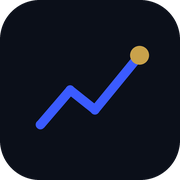
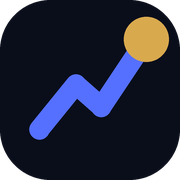
Add files via upload

diff --git a/index.html b/index.html
@@ -6,7 +6,7 @@
 <meta name="apple-mobile-web-app-capable" content="yes"/>
 <meta name="apple-mobile-web-app-status-bar-style" content="black-translucent"/>
 <meta name="apple-mobile-web-app-title" content="AlphaLine"/>
-<meta name="theme-color" content="#0B0F19"/>
+<meta name="theme-color" content="#0A0E1A"/>
 <meta name="description" content="AlphaLine — one guided plan from capital to a catalyst-aware, backtested strategy."/>
 <link rel="preconnect" href="https://fonts.googleapis.com"/>
 <link rel="preconnect" href="https://fonts.gstatic.com" crossorigin/>
@@ -17,11 +17,11 @@
 <title>AlphaLine</title>
 <style>
 :root{
-  --ink:#0B0F19; --paper:#F6F7FA; --p1:#ffffff;
-  --line:#3B5BFF; --line-dim:#E7EBFF;
-  --alpha:#C9A24B; --alpha-dim:#F5EEDD;
-  --mist:#E4E7EE; --sub:#5B6478; --muted:#9BA2B4;
-  --green:#1A8754; --red:#C4342F;
+  --ink:#0A0E1A; --paper:#F5F4EF; --p1:#ffffff;
+  --line:#2C3EA8; --line-dim:#E7E9F7;
+  --alpha:#B4823A; --alpha-dim:#F3E9D6;
+  --mist:#E4E1D8; --sub:#5B5F6E; --muted:#96938A;
+  --green:#1E8A5C; --red:#C13B31;
   --font-display:'Fraunces', Georgia, serif;
   --font-body:'IBM Plex Sans', -apple-system, sans-serif;
   --font-mono:'IBM Plex Mono', 'SF Mono', monospace;
@@ -43,8 +43,8 @@ input{font-family:inherit;}
 .rail{padding:16px 0 10px;position:sticky;top:0;background:var(--paper);z-index:20;}
 .rail-top{display:flex;align-items:center;justify-content:space-between;margin-bottom:10px;}
 .rail-brand{display:flex;align-items:center;gap:7px;}
-.rail-mark{width:29px;height:29px;flex-shrink:0;}
-.rail-word{font-family:var(--font-display);font-size:20px;font-weight:700;letter-spacing:-.015em;}
+.rail-mark{width:36px;height:36px;flex-shrink:0;}
+.rail-word{font-family:var(--font-display);font-size:22px;font-weight:800;letter-spacing:-.02em;}
 .rail-word em{font-style:normal;color:var(--line);}
 .rail-step-lbl{font-family:var(--font-mono);font-size:10.5px;color:var(--muted);font-weight:500;letter-spacing:.02em;}
 .rail-svg-wrap{width:100%;height:34px;}
@@ -64,7 +64,7 @@ input{font-family:inherit;}
 .scene-sub{font-size:13.5px;color:var(--sub);line-height:1.55;margin-bottom:22px;max-width:38ch;}
 
 /* ── HERO (scene 0) ── */
-.hero-mark{width:84px;height:84px;margin-bottom:24px;}
+.hero-mark{width:104px;height:104px;margin-bottom:24px;}
 .hero-title{font-family:var(--font-display);font-size:40px;font-weight:600;letter-spacing:-.02em;line-height:1.05;margin-bottom:14px;}
 .hero-title em{font-style:normal;color:var(--line);}
 .hero-sub{font-size:15px;color:var(--sub);line-height:1.6;margin-bottom:8px;max-width:34ch;}
@@ -115,7 +115,7 @@ input{font-family:inherit;}
 .btn-primary{background:var(--ink);color:#fff;}
 .btn-primary:disabled{opacity:.35;pointer-events:none;}
 .btn-ghost{background:none;color:var(--sub);border:1.5px solid var(--mist);flex:0 0 auto;padding:15px 20px;}
-.btn-alpha{background:linear-gradient(135deg,var(--alpha),#B8923D);color:#fff;}
+.btn-alpha{background:linear-gradient(135deg,var(--alpha),#9C6F2E);color:#fff;}
 
 /* ── FREQUENCY SHEET ── */
 .sheet-overlay{display:none;position:fixed;inset:0;background:rgba(11,15,25,.5);z-index:100;align-items:flex-end;}
@@ -145,9 +145,10 @@ input{font-family:inherit;}
   <div class="rail">
     <div class="rail-top">
       <div class="rail-brand">
-        <svg class="rail-mark" viewBox="0 0 24 24" fill="none">
-          <path d="M2 18L8 11L13 15L22 4" stroke="#3B5BFF" stroke-width="2.8" stroke-linecap="round" stroke-linejoin="round"/>
-          <circle cx="22" cy="4" r="3" fill="#C9A24B"/>
+        <svg class="rail-mark" viewBox="0 0 32 32" fill="none">
+          <rect x="0" y="0" width="32" height="32" rx="9" fill="#0A0E1A"/>
+          <path d="M7 23L13.5 15L18 19L26 7" stroke="#5570FF" stroke-width="3.6" stroke-linecap="round" stroke-linejoin="round"/>
+          <circle cx="26" cy="7" r="4" fill="#D9A94E"/>
         </svg>
         <span class="rail-word">Alpha<em>Line</em></span>
       </div>
@@ -166,9 +167,10 @@ input{font-family:inherit;}
 
   <!-- SCENE 0: HERO -->
   <section class="scene active" id="scene-0">
-    <svg class="hero-mark" viewBox="0 0 24 24" fill="none">
-      <path d="M2 18L8 11L13 15L22 4" stroke="#3B5BFF" stroke-width="2.6" stroke-linecap="round" stroke-linejoin="round"/>
-      <circle cx="22" cy="4" r="3" fill="#C9A24B"/>
+    <svg class="hero-mark" viewBox="0 0 32 32" fill="none">
+      <rect x="0" y="0" width="32" height="32" rx="9" fill="#0A0E1A"/>
+      <path d="M7 23L13.5 15L18 19L26 7" stroke="#5570FF" stroke-width="3.6" stroke-linecap="round" stroke-linejoin="round"/>
+      <circle cx="26" cy="7" r="4" fill="#D9A94E"/>
     </svg>
     <h1 class="hero-title">One plan.<br/>Built in <em>order</em>.</h1>
     <p class="hero-sub">Capital, risk, split, timeline, a backtest, and real catalysts — one guided line from start to a plan you can act on.</p>
@@ -220,15 +222,15 @@ input{font-family:inherit;}
     <div class="split-bar" id="split-bar"></div>
 
     <div class="split-row">
-      <div class="split-hd"><span class="split-name"><span class="split-dot" style="background:#3B5BFF"></span>Stocks</span><span class="split-val mono" id="split-stock-val">40%</span></div>
+      <div class="split-hd"><span class="split-name"><span class="split-dot" style="background:#2C3EA8"></span>Stocks</span><span class="split-val mono" id="split-stock-val">40%</span></div>
       <input type="range" class="split-slider" id="split-stock" min="0" max="100" value="40" oninput="splitChanged('stock')"/>
     </div>
     <div class="split-row">
-      <div class="split-hd"><span class="split-name"><span class="split-dot" style="background:#1A8754"></span>ETFs</span><span class="split-val mono" id="split-etf-val">40%</span></div>
+      <div class="split-hd"><span class="split-name"><span class="split-dot" style="background:#1E8A5C"></span>ETFs</span><span class="split-val mono" id="split-etf-val">40%</span></div>
       <input type="range" class="split-slider" id="split-etf" min="0" max="100" value="40" oninput="splitChanged('etf')"/>
     </div>
     <div class="split-row">
-      <div class="split-hd"><span class="split-name"><span class="split-dot" style="background:#C9A24B"></span>Options</span><span class="split-val mono" id="split-option-val">20%</span></div>
+      <div class="split-hd"><span class="split-name"><span class="split-dot" style="background:#B4823A"></span>Options</span><span class="split-val mono" id="split-option-val">20%</span></div>
       <input type="range" class="split-slider" id="split-option" min="0" max="100" value="20" oninput="splitChanged('option')"/>
     </div>
 
@@ -376,15 +378,15 @@ function updateRail(n){
 // STEP 1: CAPITAL & RISK TIER
 // ══════════════════════════════════════
 var TIERS = [
-  {key:'conservative', name:'Conservative', badge:'LOWER SWING', color:'#1A8754', bg:'#EAF6EF',
+  {key:'conservative', name:'Conservative', badge:'LOWER SWING', color:'#1E8A5C', bg:'#E5F3EB',
    sub:'Capital preservation first. Mostly index exposure, options used sparingly for income.',
-   mix:{stock:20,etf:65,option:15}},
-  {key:'moderate', name:'Moderate', badge:'BALANCED', color:'#3B5BFF', bg:'#EEF1FF',
+   mix:{stock:20,etf:65,option:15}, stopPct:6},
+  {key:'moderate', name:'Moderate', badge:'BALANCED', color:'#2C3EA8', bg:'#E7E9F7',
    sub:'A working balance of growth and income across all three lanes.',
-   mix:{stock:40,etf:40,option:20}},
-  {key:'aggressive', name:'Aggressive', badge:'WIDER SWING', color:'#C9A24B', bg:'#FBF3E2',
+   mix:{stock:40,etf:40,option:20}, stopPct:10},
+  {key:'aggressive', name:'Aggressive', badge:'WIDER SWING', color:'#B4823A', bg:'#F3E9D6',
    sub:'Growth-first. Heavier options weighting for leverage — wider potential swings both ways.',
-   mix:{stock:35,etf:20,option:45}}
+   mix:{stock:35,etf:20,option:45}, stopPct:16}
 ];
 var SELECTED_TIER = 'moderate';
 
@@ -402,9 +404,9 @@ function renderTierCards(){
     '<div class="tier-hd"><span class="tier-name">'+t.name+'</span><span class="tier-badge" style="background:'+t.bg+';color:'+t.color+'">'+t.badge+'</span></div>'
     + '<div class="tier-sub">'+t.sub+'</div>'
     + '<div class="tier-mix">'
-      + '<div style="width:'+t.mix.stock+'%;background:#3B5BFF"></div>'
-      + '<div style="width:'+t.mix.etf+'%;background:#1A8754"></div>'
-      + '<div style="width:'+t.mix.option+'%;background:#C9A24B"></div>'
+      + '<div style="width:'+t.mix.stock+'%;background:#2C3EA8"></div>'
+      + '<div style="width:'+t.mix.etf+'%;background:#1E8A5C"></div>'
+      + '<div style="width:'+t.mix.option+'%;background:#B4823A"></div>'
     + '</div>'
     + '<div class="tier-mix-lbls"><span>Stocks '+t.mix.stock+'%</span><span>ETFs '+t.mix.etf+'%</span><span>Options '+t.mix.option+'%</span></div>';
 }
@@ -454,9 +456,9 @@ function renderSplitBar(){
   var etf = parseFloat(document.getElementById('split-etf').value)||0;
   var option = parseFloat(document.getElementById('split-option').value)||0;
   document.getElementById('split-bar').innerHTML =
-    '<div style="width:'+stock+'%;background:#3B5BFF"></div>'
-    +'<div style="width:'+etf+'%;background:#1A8754"></div>'
-    +'<div style="width:'+option+'%;background:#C9A24B"></div>';
+    '<div style="width:'+stock+'%;background:#2C3EA8"></div>'
+    +'<div style="width:'+etf+'%;background:#1E8A5C"></div>'
+    +'<div style="width:'+option+'%;background:#B4823A"></div>';
   document.getElementById('split-stock-val').textContent = stock+'%';
   document.getElementById('split-etf-val').textContent = etf+'%';
   document.getElementById('split-option-val').textContent = option+'%';
@@ -521,8 +523,7 @@ function randNorm(){
 
 function runBacktest(weights, periodsPerYear, totalPeriods, initialCapital, numPaths){
   var finals = [];
-  var allPaths = []; // keep a small sample of paths for the fan chart
-  var sampleEvery = Math.max(1, Math.floor(numPaths/40));
+  var allPaths = []; // full set — used to compute per-period percentile bands
   for(var p=0; p<numPaths; p++){
     var capital = initialCapital;
     var path = [capital];
@@ -543,10 +544,29 @@ function runBacktest(weights, periodsPerYear, totalPeriods, initialCapital, numP
       path.push(capital);
     }
     finals.push(capital);
-    if(p%sampleEvery===0) allPaths.push(path);
+    allPaths.push(path);
   }
   finals.sort(function(a,b){return a-b;});
   return {finals:finals, samplePaths:allPaths};
+}
+
+// Per-period percentile bands across every simulated path — this is what
+// the fan chart actually draws (a spaghetti of 1,500 raw lines reads as
+// noise; percentile bands read as a shape).
+function computeBands(paths){
+  var maxLen = Math.max.apply(null, paths.map(function(p){return p.length;}));
+  var bands = [];
+  for(var i=0; i<maxLen; i++){
+    var vals = paths.map(function(p){ return p[Math.min(i,p.length-1)]; }).sort(function(a,b){return a-b;});
+    bands.push({
+      p10: percentile(vals,0.10),
+      p25: percentile(vals,0.25),
+      p50: percentile(vals,0.50),
+      p75: percentile(vals,0.75),
+      p90: percentile(vals,0.90)
+    });
+  }
+  return bands;
 }
 
 function percentile(sorted, p){
@@ -576,7 +596,7 @@ function runBacktestAndRender(){
     var hitCount = finals.filter(function(f){return f>=targetCapital;}).length;
     var hitProb = (hitCount/finals.length*100);
 
-    var fanSvg = buildFanChart(result.samplePaths, capital, targetCapital);
+    var fanSvg = buildFanChart(result.samplePaths, capital, targetCapital, duration);
 
     mount.innerHTML =
       '<div class="stat-card">'
@@ -585,7 +605,7 @@ function runBacktestAndRender(){
       + '<div class="stat-card-sub">Range: $'+Math.round(p10).toLocaleString()+' (P10) to $'+Math.round(p90).toLocaleString()+' (P90) across 1,500 simulated paths</div>'
       + '</div>'
       + fanSvg
-      + '<div style="background:'+(hitProb>=50?'var(--line-dim)':'#FDECEC')+';border-radius:12px;padding:14px 16px;margin-bottom:16px;">'
+      + '<div style="background:'+(hitProb>=50?'var(--line-dim)':'#F8E9E7')+';border-radius:12px;padding:14px 16px;margin-bottom:16px;">'
         + '<div style="font-size:12px;font-weight:700;color:'+(hitProb>=50?'var(--line)':'var(--red)')+';margin-bottom:3px;">'+hitProb.toFixed(0)+'% of simulated paths reached your target</div>'
         + '<div style="font-size:11.5px;color:var(--sub);line-height:1.5;">Target: $'+Math.round(targetCapital).toLocaleString()+' ('+targetPct+'%/yr annualized). This is a statistical model built on broad asset-class assumptions — not a replay of real historical trades.</div>'
       + '</div>';
@@ -594,28 +614,58 @@ function runBacktestAndRender(){
   }, 50);
 }
 
-function buildFanChart(paths, initialCapital, targetCapital){
+function buildFanChart(paths, initialCapital, targetCapital, duration){
   if(!paths || !paths.length) return '';
-  var maxLen = Math.max.apply(null, paths.map(function(p){return p.length;}));
-  var allVals = [].concat.apply([initialCapital, targetCapital], paths);
-  var maxV = Math.max.apply(null, allVals)*1.05;
-  var minV = Math.min(0, Math.min.apply(null, allVals));
-  var w=400, h=180, pad=6;
-  function xAt(i){ return pad + (i/(maxLen-1))*(w-2*pad); }
-  function yAt(v){ return h-pad - ((v-minV)/(maxV-minV))*(h-2*pad); }
+  var bands = computeBands(paths);
+  var maxLen = bands.length;
 
-  var lines = paths.map(function(path){
-    var d = path.map(function(v,i){ return (i===0?'M':'L')+xAt(i).toFixed(1)+' '+yAt(v).toFixed(1); }).join(' ');
-    var endsAbove = path[path.length-1] >= targetCapital;
-    return '<path d="'+d+'" fill="none" stroke="'+(endsAbove?'#3B5BFF':'#C9C2AA')+'" stroke-width="1" opacity="0.35"/>';
-  }).join('');
+  var allVals = [initialCapital, targetCapital];
+  bands.forEach(function(b){ allVals.push(b.p10, b.p90); });
+  var maxV = Math.max.apply(null, allVals)*1.06;
+  var minV = Math.max(0, Math.min.apply(null, allVals)*0.94);
+
+  var w=400, h=230, padT=10, padR=14, padB=26, padL=14;
+  function xAt(i){ return padL + (i/(maxLen-1))*(w-padL-padR); }
+  function yAt(v){ return h-padB - ((v-minV)/(maxV-minV))*(h-padT-padB); }
+
+  function bandArea(hiKey, loKey){
+    var top = bands.map(function(b,i){ return (i===0?'M':'L')+xAt(i).toFixed(1)+' '+yAt(b[hiKey]).toFixed(1); }).join(' ');
+    var bot = bands.slice().reverse().map(function(b,i){ var idx=maxLen-1-i; return 'L'+xAt(idx).toFixed(1)+' '+yAt(b[loKey]).toFixed(1); }).join(' ');
+    return top+' '+bot+' Z';
+  }
+
+  var outerBand = '<path d="'+bandArea('p90','p10')+'" fill="#2C3EA8" opacity="0.10"/>';
+  var innerBand = '<path d="'+bandArea('p75','p25')+'" fill="#2C3EA8" opacity="0.20"/>';
+  var medianLine = '<path d="'+bands.map(function(b,i){ return (i===0?'M':'L')+xAt(i).toFixed(1)+' '+yAt(b.p50).toFixed(1); }).join(' ')+'" fill="none" stroke="#2C3EA8" stroke-width="2.5" stroke-linecap="round"/>';
 
   var targetY = yAt(targetCapital);
-  var targetLine = '<line x1="'+pad+'" y1="'+targetY.toFixed(1)+'" x2="'+(w-pad)+'" y2="'+targetY.toFixed(1)+'" stroke="#C9A24B" stroke-width="1.5" stroke-dasharray="4 3"/>';
+  var targetOnChart = targetCapital<=maxV;
+  var targetLine = targetOnChart ? '<line x1="'+padL+'" y1="'+targetY.toFixed(1)+'" x2="'+(w-padR)+'" y2="'+targetY.toFixed(1)+'" stroke="#B4823A" stroke-width="1.5" stroke-dasharray="5 4"/>' : '';
+  var targetLbl = targetOnChart ? '<text x="'+(w-padR)+'" y="'+(targetY-5).toFixed(1)+'" text-anchor="end" font-family="IBM Plex Mono" font-size="10" font-weight="700" fill="#9C6F2E">Target $'+Math.round(targetCapital).toLocaleString()+'</text>' : '';
+
+  var startY = yAt(initialCapital);
+  var gridStart = '<line x1="'+padL+'" y1="'+startY.toFixed(1)+'" x2="'+(w-padR)+'" y2="'+startY.toFixed(1)+'" stroke="#E4E1D8" stroke-width="1"/>';
+
+  var medianEndY = yAt(bands[maxLen-1].p50);
+  var medianDot = '<circle cx="'+(w-padR).toFixed(1)+'" cy="'+medianEndY.toFixed(1)+'" r="3" fill="#2C3EA8"/>';
+
+  var xNow = '<text x="'+padL+'" y="'+(h-8)+'" font-family="IBM Plex Mono" font-size="10" fill="#96938A">Now</text>';
+  var xEnd = '<text x="'+(w-padR)+'" y="'+(h-8)+'" text-anchor="end" font-family="IBM Plex Mono" font-size="10" fill="#96938A">'+duration+'yr</text>';
+
+  var svg = '<svg viewBox="0 0 '+w+' '+h+'" style="width:100%;height:190px;overflow:visible;">'
+    + outerBand + innerBand + gridStart + targetLine + medianLine + medianDot + targetLbl + xNow + xEnd
+  + '</svg>';
 
   return '<div style="background:var(--p1);border:1.5px solid var(--mist);border-radius:14px;padding:14px;margin-bottom:16px;">'
-    + '<div style="font-size:10.5px;font-weight:700;color:var(--sub);text-transform:uppercase;letter-spacing:.05em;margin-bottom:8px;">Simulated Paths <span style="color:var(--alpha);font-weight:600;">┄ target</span></div>'
-    + '<svg viewBox="0 0 '+w+' '+h+'" style="width:100%;height:150px;">'+lines+targetLine+'</svg>'
+    + '<div style="display:flex;align-items:center;justify-content:space-between;margin-bottom:6px;">'
+      + '<div style="font-size:10.5px;font-weight:700;color:var(--sub);text-transform:uppercase;letter-spacing:.05em;">Simulated Paths</div>'
+      + '<div style="font-family:var(--font-mono);font-size:10px;color:var(--sub);display:flex;gap:10px;align-items:center;">'
+        + '<span><span style="display:inline-block;width:8px;height:8px;border-radius:2px;background:#2C3EA8;margin-right:4px;"></span>Median</span>'
+        + '<span><span style="display:inline-block;width:8px;height:8px;border-radius:2px;background:#B4823A;margin-right:4px;"></span>Target</span>'
+      + '</div>'
+    + '</div>'
+    + svg
+    + '<div style="font-size:10.5px;color:var(--muted);margin-top:6px;">Shaded bands show the middle 50% (dark) and middle 80% (light) of all 1,500 simulated outcomes at each point in time.</div>'
   + '</div>';
 }
 
@@ -710,12 +760,43 @@ function parsePicksJSON(text){
 }
 
 var LAST_PICKS = [];
-var LANE_META = {stock:{icon:'📈',color:'#3B5BFF'},etf:{icon:'📊',color:'#1A8754'},option:{icon:'🎯',color:'#C9A24B'}};
+var LANE_META = {stock:{icon:'📈',color:'#2C3EA8'},etf:{icon:'📊',color:'#1E8A5C'},option:{icon:'🎯',color:'#B4823A'}};
+
+// Turns a raw AI pick + the plan's capital/split/tier into an actual
+// position: dollars allocated, share/contract count, and a simple
+// entry/stop/target trade plan sized off the tier's risk band.
+function pickPositionInfo(p, capital, split, tier){
+  var laneWeight = split[p.lane] || 0;
+  var laneCapital = capital * laneWeight;
+  var allocPct = (typeof p.allocationPct==='number' ? p.allocationPct : 0)/100;
+  var dollars = laneCapital * allocPct;
+  var price = Number(p.assumedPrice)||0;
+  var isOption = p.lane==='option';
+  var unitCost = isOption ? price*100 : price;
+  var units = unitCost>0 ? Math.floor(dollars/unitCost) : 0;
+  var actualDollars = units*unitCost;
+
+  var stopPct = (tier && tier.stopPct ? tier.stopPct : 10)/100;
+  var entry = price;
+  var stop = isOption ? entry : entry*(1-stopPct);
+  var target = entry*(1+stopPct*2); // simple 2:1 reward:risk framing
+
+  return {
+    dollars: dollars, actualDollars: actualDollars, units: units, isOption: isOption,
+    entry: entry, stop: stop, target: target, stopPct: stopPct*100
+  };
+}
 
 function renderPicks(picks){
   var mount = document.getElementById('picks-results');
+  var capital = parseFloat(document.getElementById('al-capital').value)||25000;
+  var split = getCurrentSplit();
+  var tier = TIERS.filter(function(x){return x.key===SELECTED_TIER;})[0];
+
   mount.innerHTML = picks.map(function(p,i){
     var lane = LANE_META[p.lane] || LANE_META.stock;
+    var pos = pickPositionInfo(p, capital, split, tier);
+    var unitLbl = pos.isOption ? ' contract'+(pos.units===1?'':'s') : ' share'+(pos.units===1?'':'s');
     return '<div style="background:var(--p1);border:1.5px solid var(--mist);border-radius:14px;padding:15px;margin-bottom:10px;">'
       + '<div style="display:flex;align-items:center;justify-content:space-between;margin-bottom:8px;">'
         + '<div style="font-family:var(--font-display);font-size:17px;font-weight:600;">'+lane.icon+' '+p.ticker+'</div>'
@@ -723,7 +804,16 @@ function renderPicks(picks){
       + '</div>'
       + '<div id="pick-price-'+i+'" style="margin-bottom:8px;"></div>'
       + '<div style="font-size:12.5px;color:var(--ink);line-height:1.5;margin-bottom:6px;"><b>Catalyst:</b> '+(p.catalyst||'')+'</div>'
-      + '<div style="font-size:12.5px;color:var(--sub);line-height:1.5;">'+(p.rationale||'')+'</div>'
+      + '<div style="font-size:12.5px;color:var(--sub);line-height:1.5;margin-bottom:10px;">'+(p.rationale||'')+'</div>'
+      + '<div style="background:var(--paper);border-radius:10px;padding:10px 12px;">'
+        + '<div style="font-size:10px;font-weight:700;color:var(--sub);text-transform:uppercase;letter-spacing:.05em;margin-bottom:7px;">Position &amp; trade plan</div>'
+        + '<div style="display:flex;justify-content:space-between;font-family:var(--font-mono);font-size:12px;margin-bottom:4px;"><span style="color:var(--sub);">Size</span><span style="font-weight:700;">'+pos.units.toLocaleString()+unitLbl+' · $'+Math.round(pos.actualDollars).toLocaleString()+'</span></div>'
+        + '<div style="display:flex;justify-content:space-between;font-family:var(--font-mono);font-size:12px;margin-bottom:4px;"><span style="color:var(--sub);">Entry</span><span style="font-weight:700;">$'+pos.entry.toFixed(2)+'</span></div>'
+        + (pos.isOption
+            ? '<div style="display:flex;justify-content:space-between;font-family:var(--font-mono);font-size:12px;"><span style="color:var(--sub);">Max risk</span><span style="font-weight:700;color:var(--red);">Premium paid ($'+Math.round(pos.actualDollars).toLocaleString()+')</span></div>'
+            : '<div style="display:flex;justify-content:space-between;font-family:var(--font-mono);font-size:12px;margin-bottom:4px;"><span style="color:var(--sub);">Stop ('+pos.stopPct.toFixed(0)+'%)</span><span style="font-weight:700;color:var(--red);">$'+pos.stop.toFixed(2)+'</span></div>'
+              + '<div style="display:flex;justify-content:space-between;font-family:var(--font-mono);font-size:12px;"><span style="color:var(--sub);">Target</span><span style="font-weight:700;color:var(--green);">$'+pos.target.toFixed(2)+'</span></div>')
+      + '</div>'
     + '</div>';
   }).join('');
   verifyPickPrices(picks);
@@ -777,9 +867,9 @@ function renderSummary(){
   html += '<div style="background:var(--p1);border:1.5px solid var(--mist);border-radius:14px;padding:16px;margin-bottom:14px;">'
     + '<div style="font-size:11px;font-weight:700;color:var(--sub);text-transform:uppercase;letter-spacing:.05em;margin-bottom:10px;">Split</div>'
     + '<div class="split-bar" style="margin:0 0 10px;">'
-      + '<div style="width:'+(split.stock*100)+'%;background:#3B5BFF"></div>'
-      + '<div style="width:'+(split.etf*100)+'%;background:#1A8754"></div>'
-      + '<div style="width:'+(split.option*100)+'%;background:#C9A24B"></div>'
+      + '<div style="width:'+(split.stock*100)+'%;background:#2C3EA8"></div>'
+      + '<div style="width:'+(split.etf*100)+'%;background:#1E8A5C"></div>'
+      + '<div style="width:'+(split.option*100)+'%;background:#B4823A"></div>'
     + '</div>'
     + '<div style="display:flex;justify-content:space-between;font-size:12px;font-weight:600;">'
       + '<span>Stocks '+Math.round(split.stock*100)+'%</span><span>ETFs '+Math.round(split.etf*100)+'%</span><span>Options '+Math.round(split.option*100)+'%</span>'
@@ -787,15 +877,30 @@ function renderSummary(){
   + '</div>';
 
   if(LAST_PICKS && LAST_PICKS.length){
+    var totalDeployed = 0;
+    var rows = LAST_PICKS.map(function(p){
+      var lane = LANE_META[p.lane]||LANE_META.stock;
+      var pos = pickPositionInfo(p, capital, split, t);
+      totalDeployed += pos.actualDollars;
+      var unitLbl = pos.isOption ? 'ct' : 'sh';
+      var riskCell = pos.isOption
+        ? ('<span style="color:var(--red);">risk $'+Math.round(pos.actualDollars).toLocaleString()+'</span>')
+        : ('<span style="color:var(--red);">stop $'+pos.stop.toFixed(2)+'</span> · <span style="color:var(--green);">tgt $'+pos.target.toFixed(2)+'</span>');
+      return '<div style="padding:9px 0;border-bottom:1px solid var(--mist);">'
+        + '<div style="display:flex;justify-content:space-between;align-items:center;margin-bottom:3px;">'
+          + '<span style="font-weight:700;font-size:13px;">'+lane.icon+' '+p.ticker+'</span>'
+          + '<span style="font-family:var(--font-mono);font-size:12px;font-weight:700;">'+pos.units.toLocaleString()+unitLbl+' · $'+Math.round(pos.actualDollars).toLocaleString()+'</span>'
+        + '</div>'
+        + '<div style="font-family:var(--font-mono);font-size:10.5px;color:var(--sub);">entry $'+pos.entry.toFixed(2)+' · '+riskCell+'</div>'
+      + '</div>';
+    }).join('');
+
     html += '<div style="background:var(--p1);border:1.5px solid var(--mist);border-radius:14px;padding:16px;margin-bottom:14px;">'
-      + '<div style="font-size:11px;font-weight:700;color:var(--sub);text-transform:uppercase;letter-spacing:.05em;margin-bottom:10px;">Picks</div>'
-      + LAST_PICKS.map(function(p){
-          var lane = LANE_META[p.lane]||LANE_META.stock;
-          return '<div style="display:flex;justify-content:space-between;align-items:center;padding:7px 0;border-bottom:1px solid var(--mist);">'
-            + '<span style="font-weight:700;font-size:13px;">'+lane.icon+' '+p.ticker+'</span>'
-            + '<span style="font-family:var(--font-mono);font-size:11px;color:var(--sub);">$'+Number(p.assumedPrice).toFixed(2)+'</span>'
-          + '</div>';
-        }).join('')
+      + '<div style="display:flex;justify-content:space-between;align-items:baseline;margin-bottom:10px;">'
+        + '<div style="font-size:11px;font-weight:700;color:var(--sub);text-transform:uppercase;letter-spacing:.05em;">Picks &amp; trade plan</div>'
+        + '<div style="font-family:var(--font-mono);font-size:11px;color:var(--sub);">$'+Math.round(totalDeployed).toLocaleString()+' deployed</div>'
+      + '</div>'
+      + rows
     + '</div>';
   } else {
     html += '<div style="font-size:12.5px;color:var(--muted);padding:10px 2px;">No picks generated yet — go back to Step 5 to find some.</div>';
